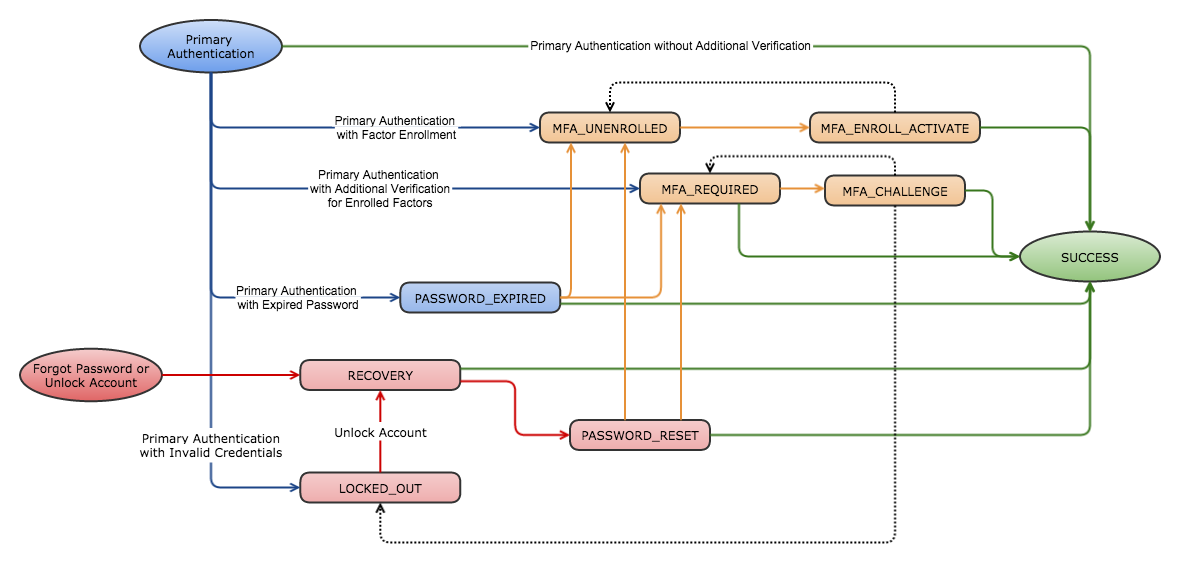
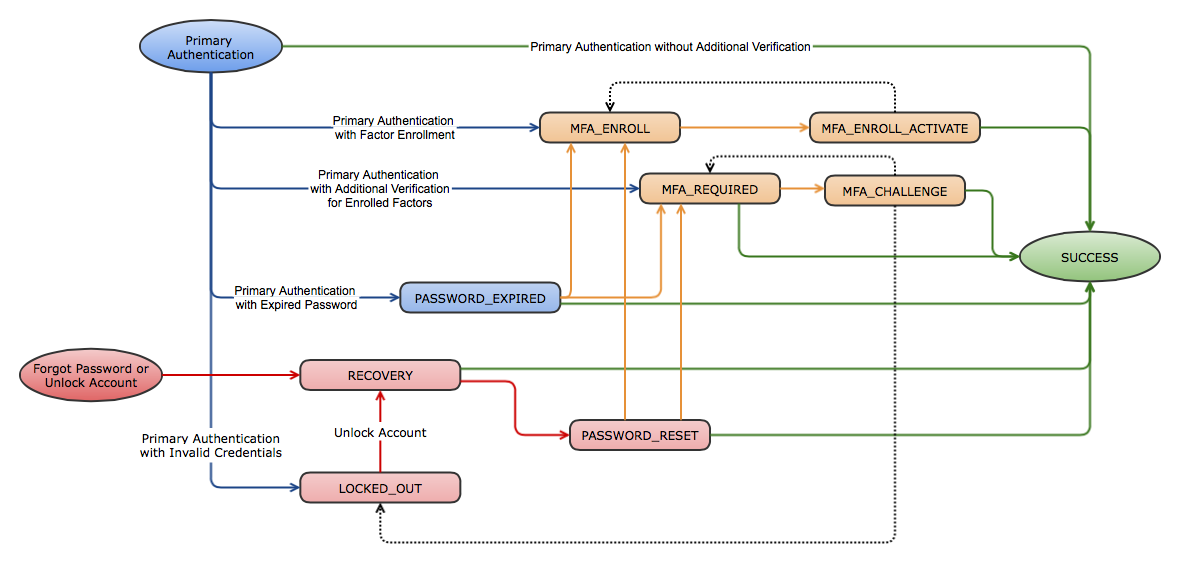
Auth API doc: rename MFA_UNENROLLED status to MFA_ENROLL resolves OKTA-46615

diff --git a/docs/api/rest/authn.md b/docs/api/rest/authn.md
@@ -47,7 +47,7 @@ PASSWORD_EXPIRED    | The user's password was successfully validated but is expi
 RECOVERY            | The user has requested a recovery token to reset their password or unlock their account. | POST to the `next` link relation to [answer the user's recovery question](#answer-recovery-question).
 PASSWORD_RESET      | The user successfully answered their recovery question and must to set a new password.   | POST to the `next` link relation to [reset the user's password](#reset-password).
 LOCKED_OUT          | The user account is locked; self-service unlock or admin unlock is required.             | POST to the `unlock` link relation to perform a [self-service unlock](#unlock-account).
-MFA_UNENROLLED      | The user must select and enroll an available factor for additional verification.         | POST to the `enroll` link relation for a specific factor to [enroll the factor](#enroll-factor).
+MFA_ENROLL          | The user must select and enroll an available factor for additional verification.         | POST to the `enroll` link relation for a specific factor to [enroll the factor](#enroll-factor).
 MFA_ENROLL_ACTIVATE | The user must activate the factor to complete enrollment.                                | POST to the `next` link relation to [activate the factor](#activate-factor).
 MFA_REQUIRED        | The user must provide additional verification with a previously enrolled factor.         | POST to the `verify` link relation for a specific factor to [provide additional verification](#verify-factor).
 MFA_CHALLENGE       | The user must verify the factor-specific challenge.                                      | POST to the `verify` link relation to [verify the factor](#verify-factor).
@@ -741,7 +741,7 @@ curl -v -H "Authorization: SSWS yourtoken" \
 {
   "stateToken": "00Z20ZhXVrmyR3z8R-m77BvknHyckWCy5vNwEA6huD",
   "expiresAt": "2014-11-02T23:44:41.736Z",
-  "status": "MFA_UNENROLLED",
+  "status": "MFA_ENROLL",
   "relayState": "/myapp/some/deep/link/i/want/to/return/to",
   "_embedded": {
     "user": {
@@ -953,7 +953,7 @@ curl -v -H "Authorization: SSWS yourtoken" \
 
 <span class="api-uri-template api-uri-post"><span class="api-label">POST</span> /authn/factors
 
-Enrolls a user with a [factor](factors.html#supported-factors) assigned by their administrator.  The operation is only available for users that have not previously enrolled a factor and have transitioned to the `MFA_UNENROLLED` [authentication status][#authentication-status]. 
+Enrolls a user with a [factor](factors.html#supported-factors) assigned by their administrator.  The operation is only available for users that have not previously enrolled a factor and have transitioned to the `MFA_ENROLL` [authentication status][#authentication-status]. 
 
 - [Enroll User with Security Question](#enroll-user-with-security-question)
 - [Enroll User with Okta SMS Factor](#enroll-user-with-okta-sms-factor)
